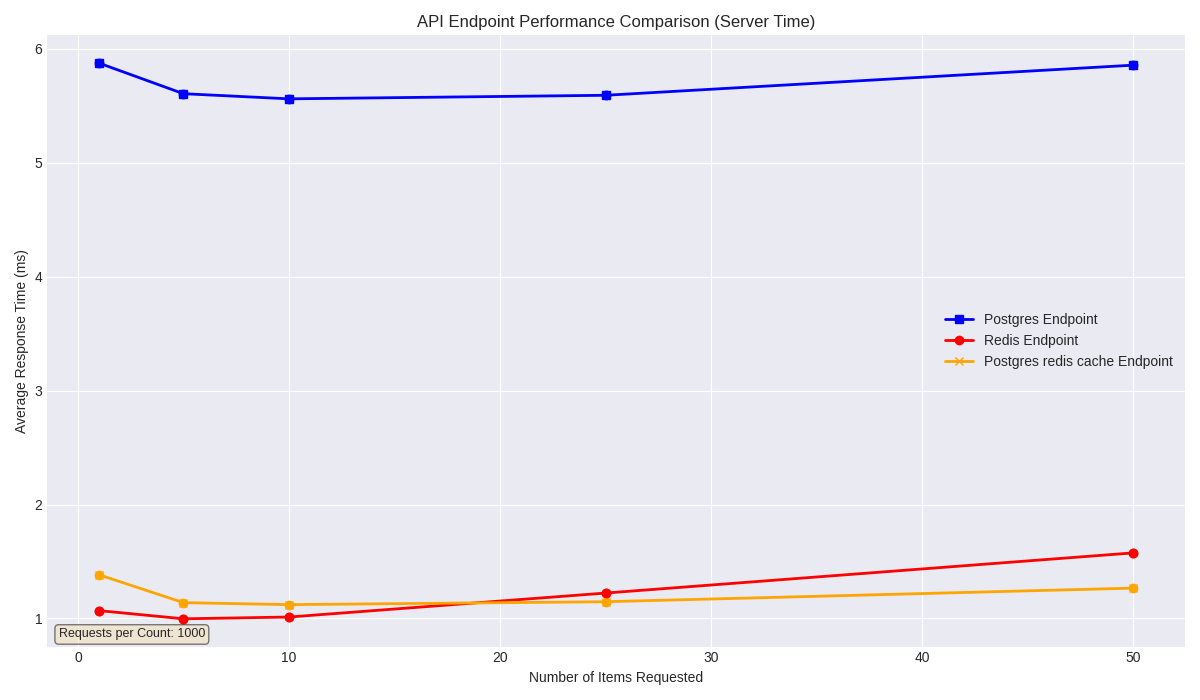
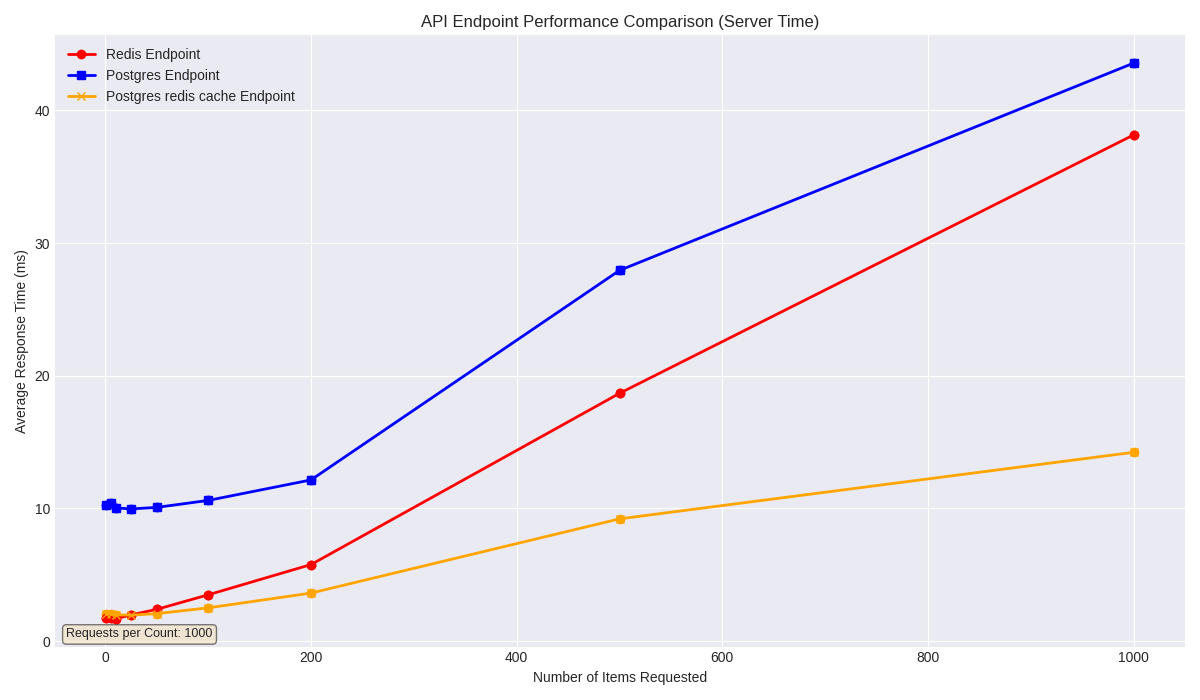
Setup equal database for postgres

diff --git a/src/routes/postgresRoute.ts b/src/routes/postgresRoute.ts
@@ -74,7 +74,10 @@ router.get('/random-redis-items/:feedId/:itemCount', async (req, res) => {
     const parsedItemCount = parseInt(itemCount, 10);
     const feedCacheKey = `feed:${feedId}:items`
 
+    const sampleStart = performance.now();
     const sampledItems = await redis.srandmember(feedCacheKey, parsedItemCount);
+    const sampleEnd = performance.now();
+    console.log(`Sampling redis took: ${sampleEnd - sampleStart}`);
 
     const pipeline = redis.multi();
 

diff --git a/seed_postgres.py b/seed_postgres.py
@@ -1,0 +1,103 @@
+import psycopg2
+import random
+import uuid
+from faker import Faker
+
+fake = Faker()
+
+DB_CONFIG = {
+    'dbname': 'mydatabase',
+    'user': 'postgres',
+    'password': 'postgres',
+    'host': 'localhost',
+    'port': 5432
+}
+
+def main():
+    try:
+        conn = psycopg2.connect(**DB_CONFIG)
+        conn.autocommit = False
+        cur = conn.cursor()
+
+        # Step 1: Drop tables
+        print("Dropping existing tables...")
+        cur.execute("DROP TABLE IF EXISTS items;")
+        cur.execute("DROP TABLE IF EXISTS feeds;")
+
+        # Step 2: Recreate tables
+        print("Creating tables...")
+        cur.execute("""
+            CREATE TABLE IF NOT EXISTS feeds (
+                id INTEGER PRIMARY KEY,
+                type VARCHAR(50) NOT NULL,
+                name VARCHAR(255) NOT NULL,
+                created_at TIMESTAMP DEFAULT CURRENT_TIMESTAMP,
+                status VARCHAR(50) DEFAULT 'active'
+            );
+        """)
+        cur.execute("""
+            CREATE TABLE IF NOT EXISTS items (
+                id UUID PRIMARY KEY DEFAULT gen_random_uuid(),
+                feed_id INTEGER NOT NULL,
+                price NUMERIC(10, 2) NOT NULL,
+                description TEXT NOT NULL,
+                name VARCHAR(255) NOT NULL,
+                cta VARCHAR(50) NOT NULL,
+                click_url TEXT NOT NULL,
+                item_id_ref UUID NOT NULL DEFAULT gen_random_uuid(),
+                FOREIGN KEY (feed_id) REFERENCES feeds(id)
+            );
+        """)
+
+        # Step 3: Insert 100 feeds
+        print("Inserting feeds...")
+        feeds_data = []
+        for feed_id in range(1, 101):
+            feed_type = random.choice(['product', 'article', 'service', 'event'])
+            feed_name = fake.bs().title() if feed_type == 'product' else fake.catch_phrase()
+            feeds_data.append((feed_id, feed_type, feed_name))
+            print(f"Feed {feed_id} inserted.")
+
+        cur.executemany("""
+            INSERT INTO feeds (id, type, name)
+            VALUES (%s, %s, %s)
+        """, feeds_data)
+
+        # Step 4: Insert 1000 items per feed
+        print("Inserting items...")
+        items_data = []
+        for feed_id in range(1, 101):
+            print(f"Processing feed {feed_id}...")
+            for item_idx in range(1000):
+                price = round(random.uniform(1.99, 999.99), 2)
+                description = fake.text(max_nb_chars=200)
+                item_name = fake.bs().title() if feed_id % 4 == 0 else fake.catch_phrase()
+                cta = random.choice(['Buy Now', 'Learn More', 'Register', 'View Details'])
+                click_url = fake.url()
+                items_data.append((feed_id, price, description, item_name, cta, click_url))
+
+                # Log progress every 100 items
+                if item_idx % 100 == 0:
+                    print(f"Feed {feed_id}: {item_idx} items inserted.")
+
+        cur.executemany("""
+            INSERT INTO items (feed_id, price, description, name, cta, click_url)
+            VALUES (%s, %s, %s, %s, %s, %s)
+        """, items_data)
+        print("All items inserted.")
+
+        # Step 5: Commit and close
+        conn.commit()
+        print("Database seeding completed successfully.")
+
+    except Exception as e:
+        print(f"Error: {e}")
+        conn.rollback()
+    finally:
+        if 'cur' in locals():
+            cur.close()
+        if 'conn' in locals():
+            conn.close()
+
+if __name__ == "__main__":
+    main()

diff --git a/benchmark.py b/benchmark.py
@@ -10,8 +10,8 @@ import sys
 
 # --- Configuration ---
 BASE_URL = "http://localhost:3001/api/postgres"
-VALID_FEED_IDS = [1, 2, 3, 4, 5, 6, 7, 8, 10]
-ITEM_COUNTS_TO_TEST = [1, 5, 10, 25, 50]
+VALID_FEED_IDS = [1, 2, 3, 4, 5, 6, 7, 8, 10, 99, 100]
+ITEM_COUNTS_TO_TEST = [1, 5, 10, 25, 50, 100, 200, 500, 1000]
 REQUESTS_PER_COUNT = 1000
 MAX_WORKERS = 20
 REQUEST_TIMEOUT = 20
